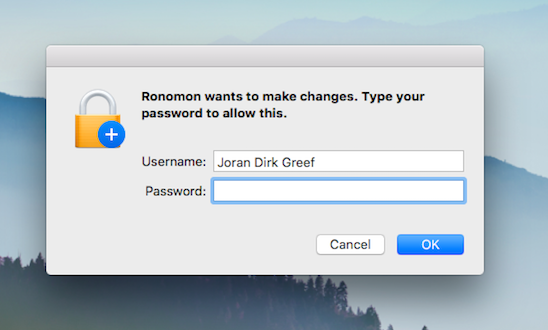
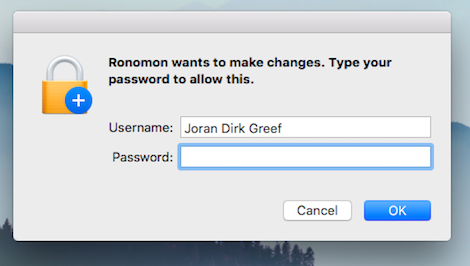
Updated docs

diff --git a/README.md b/README.md
@@ -3,13 +3,18 @@
 Run a subprocess with administrative privileges, prompting the user with a graphical OS dialog if necessary. Useful for background Node.js applications or native Electron apps that need sudo.
 
 
-<img src="./darwin/sample.png" width="40%">
-<img src="./win32/sample.png" width="40%">
+- `Windows` Use native "User Account Control" (UAC)
 
-On Linux we try to use system pkexec, gksudo or kdesudo, if it not found then use bundled gksu.
+    <img style="width:330px" src="./win32/sample.png">
 
-<img src="./linux/sample1.png" width="30%">
-<img src="./linux/sample2.png" width="30%">
+- `OS X`
+
+    <img style="width:330px" src="./darwin/sample.png">
+
+- `Linux` we try to use system pkexec, gksudo or kdesudo, if it not found then use bundled gksu.
+
+    <img src="./linux/sample1.png" style="width:330px">
+    <img src="./linux/sample2.png" style="width:330px">
 
 `sudo-dialog` provides a native OS dialog prompt on **OS X** and **Linux (beta)** with custom name and optional icon.
 
@@ -25,8 +30,19 @@ Note: Your command should not start with the `sudo` prefix.
 ```
 var sudo = require('sudo-dialog');
 var options = {
-  name: 'Ronomon',
-  icns: '/path/to/icns/file' // (optional)
+  name: 'Your application name',
+  icns: '/path/to/icns/file' // (optional, only for MacOS),
+  process: {
+    options: { // https://nodejs.org/api/child_process.html#child_process_child_process_exec_command_options_callback
+      env: {'VAR': 'VALUE'}
+    },
+    on: function(ps) {
+      ps.stdout.on('data', function(data) {});
+      setTimeout(function() {
+        ps.kill()
+      }.bind(ps), 50000);
+    }
+  }
 };
 sudo.exec('echo hello', options, function(error) {});
 ```
